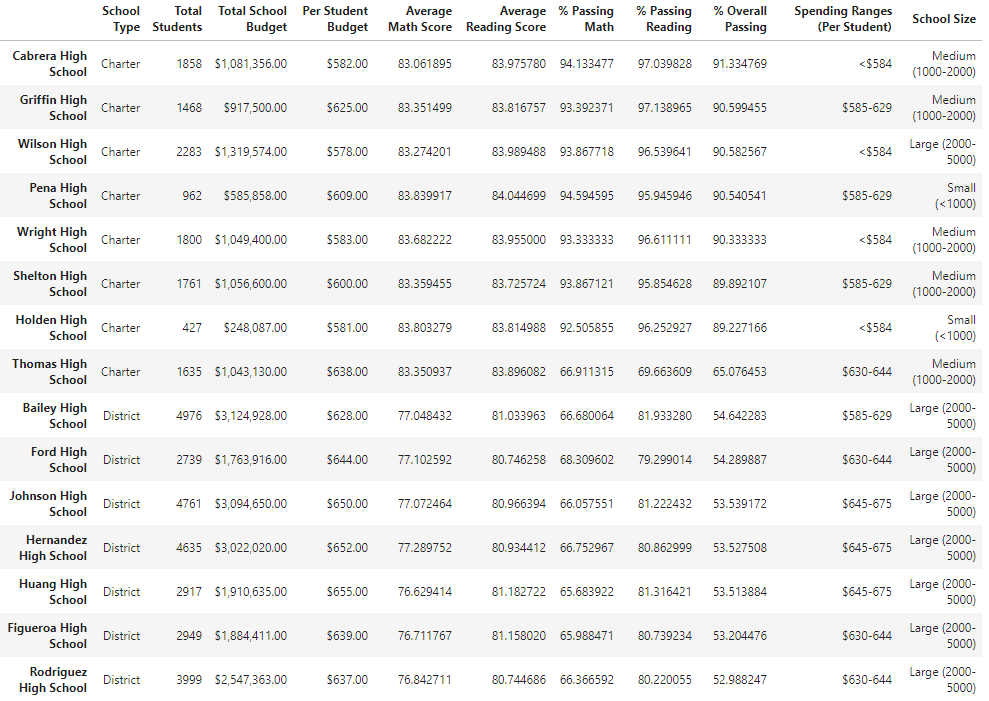
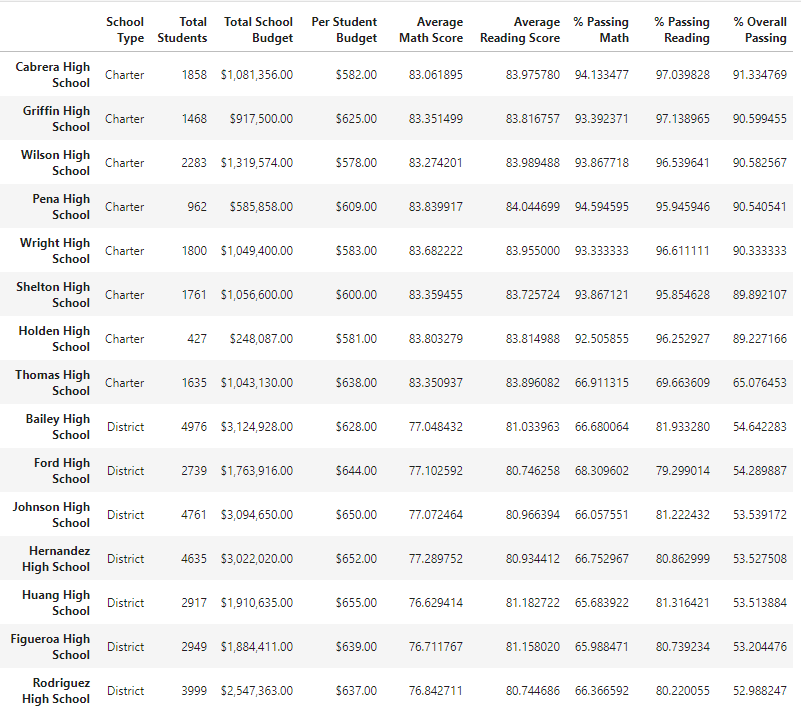
completed README, updated TopSchoolsChallenge image

diff --git a/README.md b/README.md
@@ -57,7 +57,7 @@ The correction for the academic dishonesty impacted the School Summary as summar
 
 These results are to be expected since it follows that approximately a quarter of the students at Thomas High School are 9th grade students. The respective scores were removed from the dataset; therefore, these students would appear as though they did not pass math or reading.
 
-## High-performing and low-performing schools
+## High-performing and low-performing schools (school perfomrance rank)
 The following is a rendering of the entire DataFrame which sorts the school performance in descending order, meaning, the top performing school appears first, and the bottom performing school appears last.
 
 ### Original Analysis
